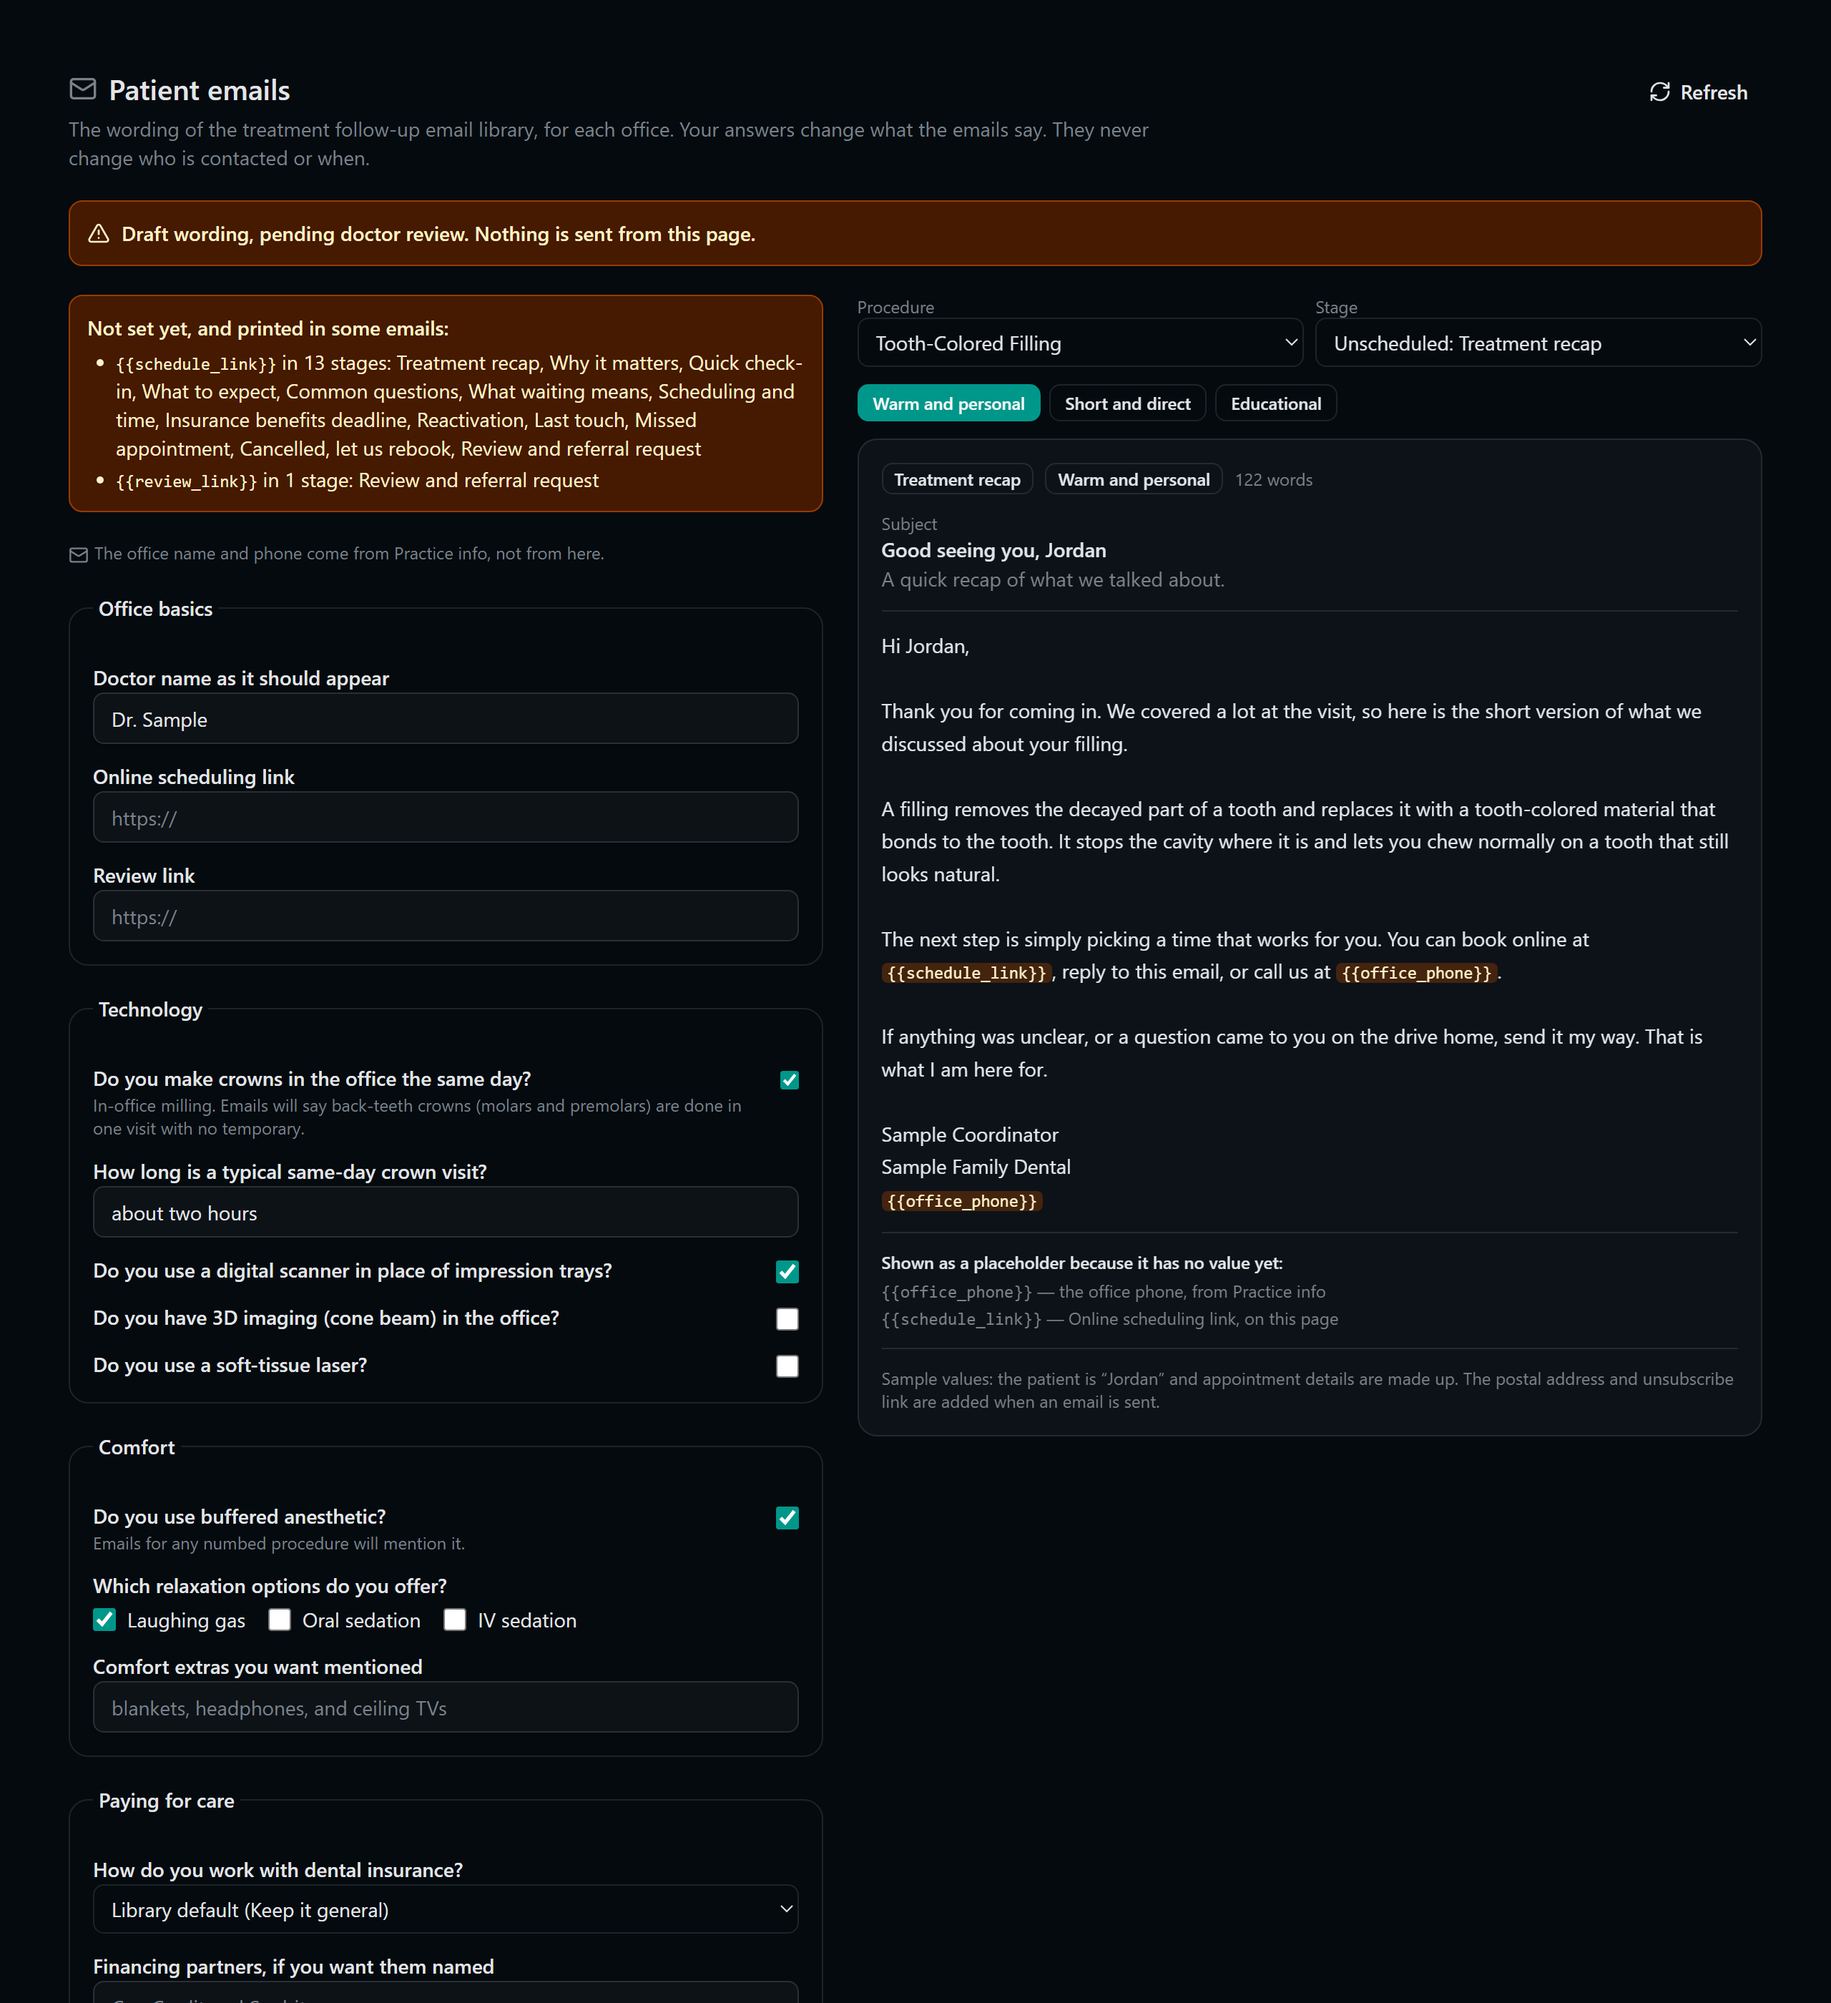
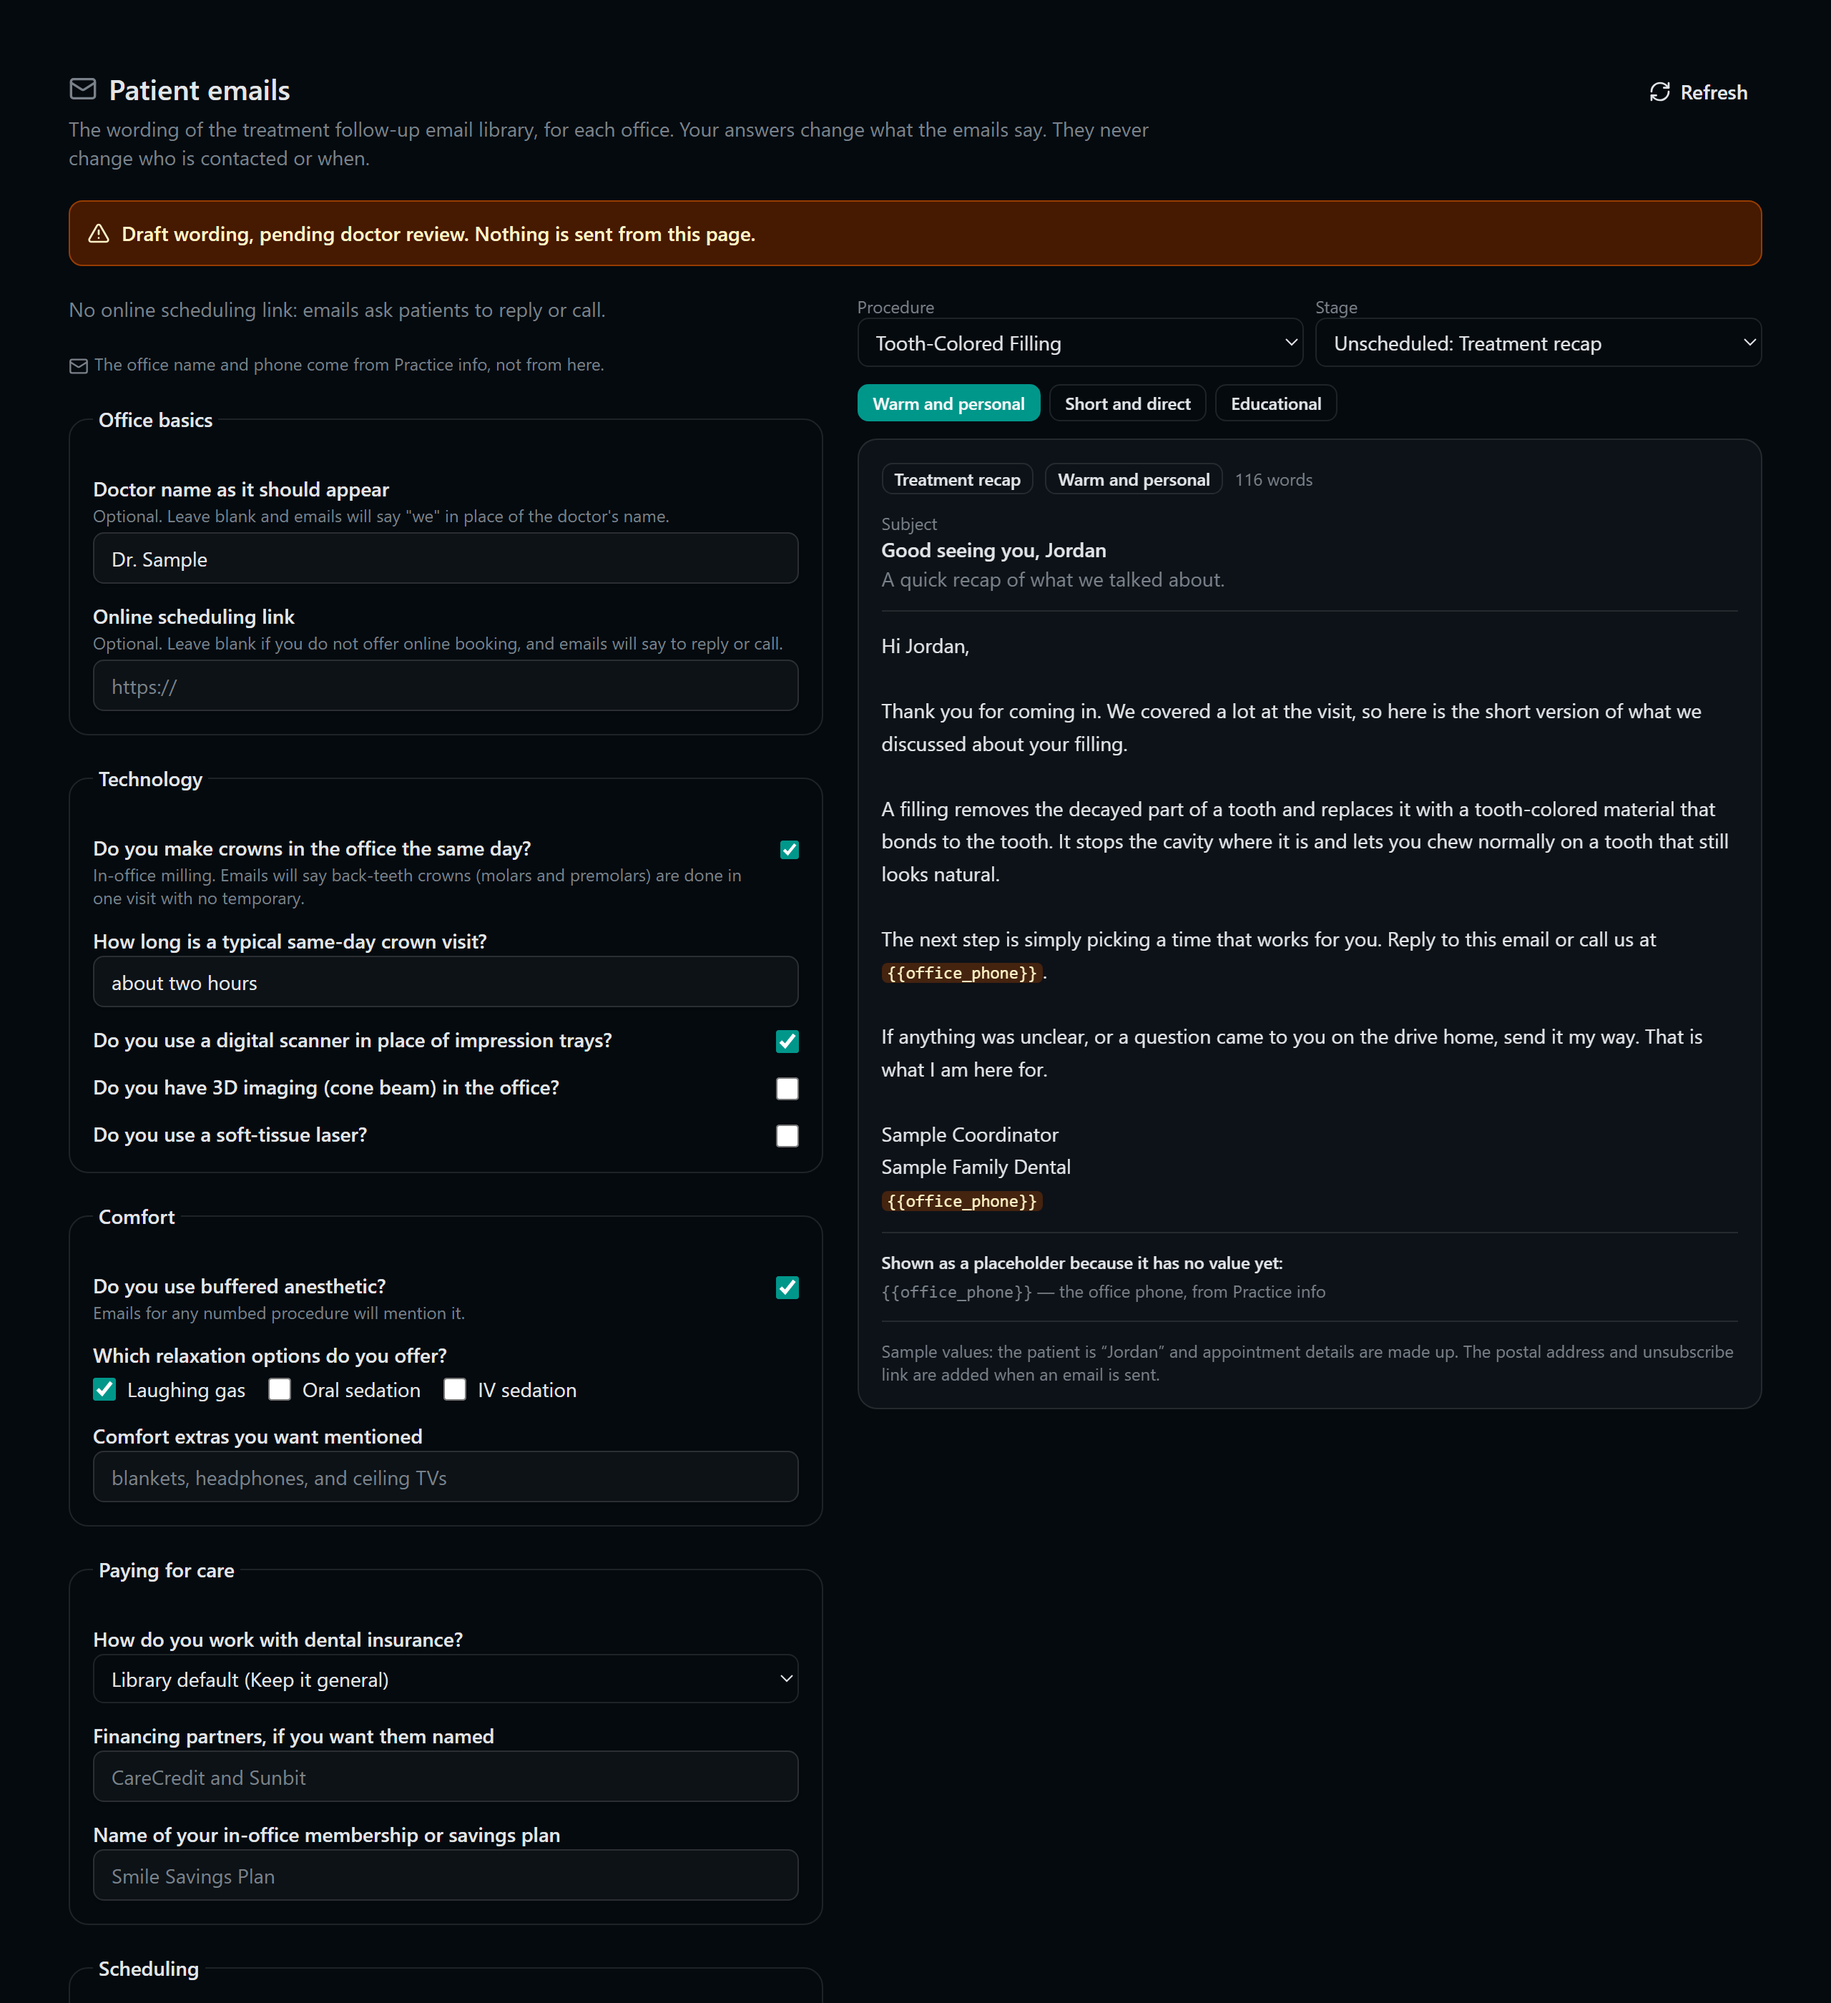
Show blank optional settings as neutral lines on /admin/patient-emails

diff --git a/new-dashboard/tests/admin-patient-emails.test.tsx b/new-dashboard/tests/admin-patient-emails.test.tsx
@@ -58,7 +58,7 @@ const q = (over: Partial<EmailLibraryCatalogResponse["questions"][number]> & Pic
 const CATALOG: EmailLibraryCatalogResponse = {
   success: true,
   office: "roland",
-  libraryVersion: "1.1.0",
+  libraryVersion: "1.2.0",
   clinicallyApproved: false,
   status: "DRAFT",
   rulesOfUse: [],
@@ -72,7 +72,7 @@ const CATALOG: EmailLibraryCatalogResponse = {
   ],
   stages: [
     { id: "tp_recap", label: "Treatment recap", phase: "Unscheduled", use: "", inUse: true },
-    { id: "review_referral", label: "Review request", phase: "After", use: "", inUse: true },
+    { id: "post_op_checkin", label: "Post-op check-in", phase: "After", use: "", inUse: true },
   ],
   variants: { A: "Warm and personal", B: "Short and direct", C: "Educational" },
   sequences: [],
@@ -104,7 +104,8 @@ function profile(over: Partial<EmailLibraryProfileResponse> = {}): EmailLibraryP
     libraryVersion: null,
     updatedBy: null,
     updatedAt: null,
-    missing: [{ field: "schedule_link", stages: ["tp_recap"] }],
+    missing: [],
+    blankOptional: ["schedule_link", "doctor_name"],
     canEdit: true,
     ...over,
   };
@@ -124,9 +125,9 @@ function preview(over: Partial<EmailLibraryPreviewResponse> = {}): EmailLibraryP
     answersSource: "saved",
     subject: "Good seeing you, Jordan",
     preheader: "A quick recap of what we talked about.",
-    bodyText: "Hi Jordan,\n\nYou can book online at {{schedule_link}}, or call us at {{office_phone}}.\n\nTC User",
-    mergeFields: ["first_name", "office_phone", "schedule_link", "sender_name"],
-    unresolved: ["office_phone", "schedule_link"],
+    bodyText: "Hi Jordan,\n\nReply to this email or call us at {{office_phone}}.\n\nTC User",
+    mergeFields: ["first_name", "office_phone", "sender_name"],
+    unresolved: ["office_phone"],
     wordCount: 20,
     clinicallyApproved: false,
     ...over,
@@ -157,8 +158,7 @@ describe("/admin/patient-emails", () => {
     fireEvent.click(within(screen.getByTestId("patient-emails-q-same_day_crowns")).getByRole("checkbox"));
     expect(screen.getByTestId("patient-emails-q-same_day_length")).toBeTruthy();
 
-    expect(screen.getByTestId("patient-emails-missing-schedule_link").textContent).toContain("Treatment recap");
-    await waitFor(() => expect(screen.getAllByTestId("patient-emails-unresolved-token").length).toBe(2), { timeout: 2000 });
+    await waitFor(() => expect(screen.getAllByTestId("patient-emails-unresolved-token").length).toBe(1), { timeout: 2000 });
     expect(screen.getByTestId("patient-emails-unresolved").textContent).toContain("{{office_phone}}");
   });
 
@@ -221,6 +221,38 @@ describe("/admin/patient-emails", () => {
     expect(await screen.findByTestId("patient-emails-read-only")).toBeTruthy();
     expect(screen.queryByTestId("patient-emails-save")).toBeNull();
     expect((screen.getByLabelText("Doctor name as it should appear") as HTMLInputElement).disabled).toBe(true);
+  });
+
+  it("blank optional settings are neutral lines, and there is no Not-set box when nothing is missing", async () => {
+    render(<AdminPatientEmails />);
+    await screen.findByTestId("patient-emails-questionnaire");
+    expect(screen.queryByTestId("patient-emails-missing")).toBeNull();
+    expect(screen.getByTestId("patient-emails-blank-schedule_link").textContent).toBe(
+      "No online scheduling link: emails ask patients to reply or call.",
+    );
+    expect(screen.getByTestId("patient-emails-blank-doctor_name").textContent).toBe('No doctor name: emails say "we".');
+    // Neutral, not the amber warning box.
+    expect(screen.getByTestId("patient-emails-blank-optional").className).not.toMatch(/amber/);
+  });
+
+  it("only the blank settings get a line; none when both are set", async () => {
+    apiMock.getEmailLibraryProfile.mockResolvedValue(profile({ saved: true, answers: { doctor_name: "Dr. Sample" }, blankOptional: ["schedule_link"] }));
+    render(<AdminPatientEmails />);
+    await screen.findByTestId("patient-emails-blank-schedule_link");
+    expect(screen.queryByTestId("patient-emails-blank-doctor_name")).toBeNull();
+    cleanup();
+    apiMock.getEmailLibraryProfile.mockResolvedValue(
+      profile({ saved: true, answers: { doctor_name: "Dr. Sample", schedule_link: "https://book.example.test" }, blankOptional: [] }),
+    );
+    render(<AdminPatientEmails />);
+    await screen.findByTestId("patient-emails-questionnaire");
+    expect(screen.queryByTestId("patient-emails-blank-optional")).toBeNull();
+  });
+
+  it("the amber Not-set box shows only when the server lists a setting still printed as a token", async () => {
+    apiMock.getEmailLibraryProfile.mockResolvedValue(profile({ missing: [{ field: "schedule_link", stages: ["tp_recap"] }] }));
+    render(<AdminPatientEmails />);
+    expect((await screen.findByTestId("patient-emails-missing-schedule_link")).textContent).toContain("Treatment recap");
   });
 
   it("no banner once the server says the library is approved", async () => {

diff --git a/new-dashboard/client/src/pages/AdminPatientEmails.tsx b/new-dashboard/client/src/pages/AdminPatientEmails.tsx
@@ -42,6 +42,7 @@ import {
 import { asOfficeKey, servedOfficeKeys } from "@/lib/officeKeys";
 import type { OfficeId } from "@shared/tc/contract";
 import {
+  EMAIL_LIBRARY_LINK_KEYS,
   EMAIL_LIBRARY_LINK_MAX,
   EMAIL_LIBRARY_TEXT_MAX,
   validateEmailLibraryAnswers,
@@ -65,9 +66,18 @@ const MERGE_FIELD_HELP: Record<string, string> = {
   sender_name: "the team member sending it (your display name)",
   doctor_name: "Doctor name, on this page",
   schedule_link: "Online scheduling link, on this page",
-  review_link: "Review link, on this page",
   appointment_date: "the appointment date (a sample here)",
   appointment_time: "the appointment time (a sample here)",
+};
+
+/**
+ * One neutral line per optional setting the office left blank: how the emails
+ * read without it. Not a warning; since library 1.2.0 the wording is complete
+ * either way.
+ */
+const BLANK_OPTIONAL_NOTE: Record<EmailLibraryProfileResponse["blankOptional"][number], string> = {
+  schedule_link: "No online scheduling link: emails ask patients to reply or call.",
+  doctor_name: 'No doctor name: emails say "we".',
 };
 
 function sameJson(a: unknown, b: unknown): boolean {
@@ -221,7 +231,7 @@ function QuestionField({
   }
 
   const max =
-    q.id === "schedule_link" || q.id === "review_link"
+    (EMAIL_LIBRARY_LINK_KEYS as readonly string[]).includes(q.id)
       ? EMAIL_LIBRARY_LINK_MAX
       : (EMAIL_LIBRARY_TEXT_MAX as Record<string, number>)[q.id] ?? 8;
   return (
@@ -397,6 +407,15 @@ function OfficeEmailLibrary({ office }: { office: OfficeId }) {
               ))}
             </ul>
           </div>
+        )}
+        {profile.blankOptional.length > 0 && (
+          <ul className="space-y-0.5 text-sm text-muted-foreground" data-testid="patient-emails-blank-optional">
+            {profile.blankOptional.map((field) => (
+              <li key={field} data-testid={`patient-emails-blank-${field}`}>
+                {BLANK_OPTIONAL_NOTE[field]}
+              </li>
+            ))}
+          </ul>
         )}
         <p className="text-xs text-muted-foreground">
           <Mail className="mr-1 inline h-3.5 w-3.5" aria-hidden />

diff --git a/new-dashboard/tests/tc-email-library-shots.test.tsx b/new-dashboard/tests/tc-email-library-shots.test.tsx
@@ -47,6 +47,7 @@ interface LibraryEmail {
 interface LibraryModule {
   catalog: (office: string, answers: Record<string, unknown>) => EmailLibraryCatalogResponse;
   missingSettings: (answers: Record<string, unknown>) => EmailLibraryProfileResponse["missing"];
+  blankOptionalSettings: (answers: Record<string, unknown>) => EmailLibraryProfileResponse["blankOptional"];
   composeOne: (pick: { procedureId: string; stage: string; variant: string }, answers: Record<string, unknown>) => LibraryEmail;
   resolveMergeFields: (texts: string[], values: Record<string, string | null>) => { texts: string[]; unresolved: string[] };
 }
@@ -77,10 +78,11 @@ vi.mock("@/features/tc/emailLibrary/emailLibraryApi", () => ({
     office: "roland",
     saved: true,
     answers: ANSWERS,
-    libraryVersion: "1.1.0",
+    libraryVersion: "1.2.0",
     updatedBy: "admin@example.test",
     updatedAt: "2026-11-19T15:00:00.000Z",
     missing: library!.missingSettings(ANSWERS),
+    blankOptional: library!.blankOptionalSettings(ANSWERS),
     canEdit: state.canEdit,
   }),
   saveEmailLibraryProfile: async () => {
@@ -98,7 +100,6 @@ vi.mock("@/features/tc/emailLibrary/emailLibraryApi", () => ({
       sender_name: "Sample Coordinator",
       doctor_name: typeof answers.doctor_name === "string" ? answers.doctor_name : null,
       schedule_link: null,
-      review_link: null,
     });
     return {
       success: true,
